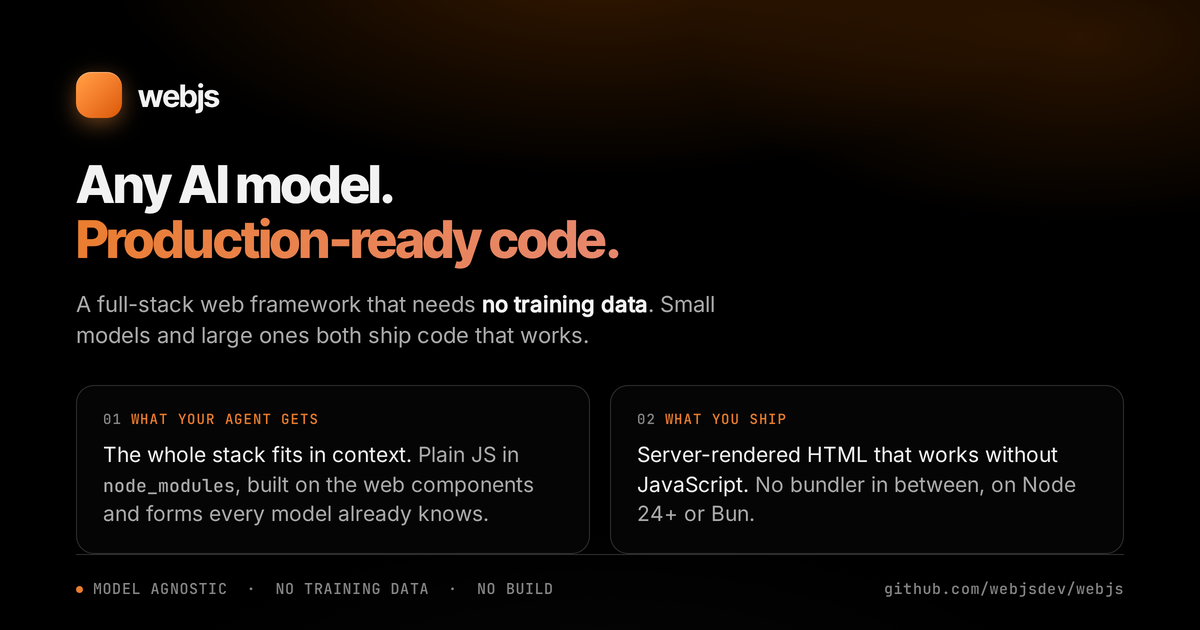
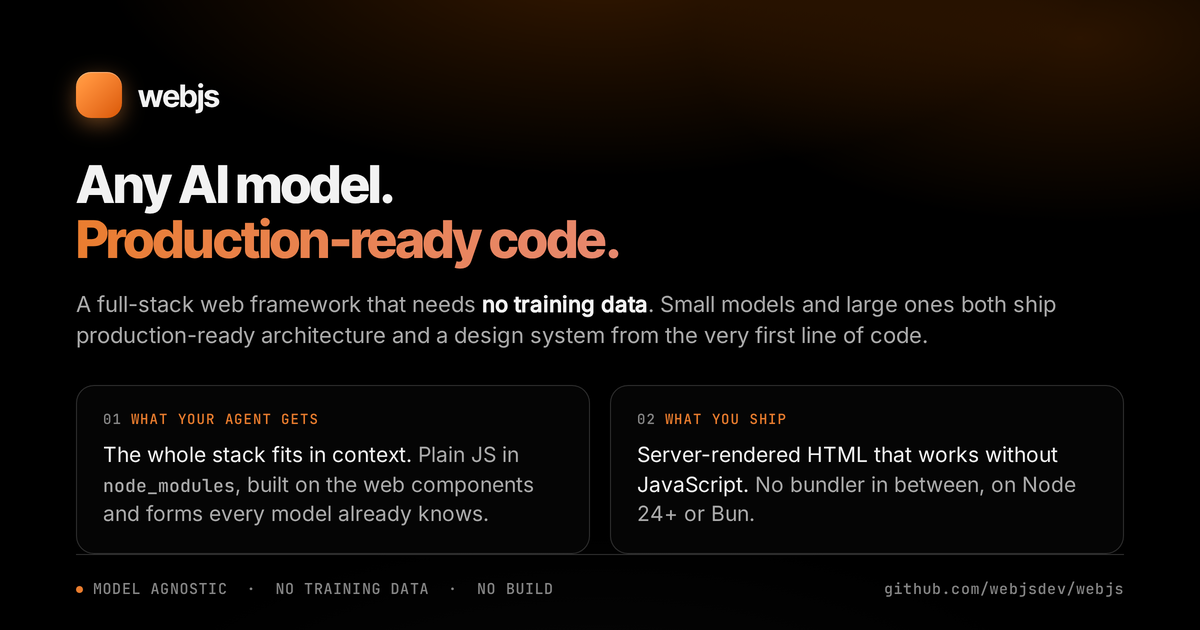
feat(website): promise architecture and a design system, not just code
'Ship code that works' understates the claim. What a model actually gets
out of WebJs from the first line is a production-ready architecture (the
modules layout, server actions, the server boundary) and a design system
(the scaffold's tokens and the component kit), not merely code that
compiles.

Applied to the three places the sentence appears: the home OG card, the
hero lede, and the meta description. The card's lede widens to 80ch so
the longer line still sets in two lines and the card layout is unchanged.

Changed region(s): [[0.0617, 0.4524, 0.8942, 0.573]]

diff --git a/website/app/layout.ts b/website/app/layout.ts
@@ -18,7 +18,7 @@ import { siteFooter } from '#lib/site-footer.ts';
  */
 
 const TITLE = 'WebJs - The Web Framework for AI Agents';
-const DESCRIPTION = 'A model-agnostic full-stack web framework that needs no training data. An agent reads the whole stack end to end, so small models and large ones both ship production-ready code. Web components, SSR, progressive enhancement, file-based routing, and server actions, with zero build step. Runs on Node 24+ or Bun.';
+const DESCRIPTION = 'A model-agnostic full-stack web framework that needs no training data. An agent reads the whole stack end to end, so small models and large ones both ship production-ready architecture and a design system from the very first line of code. Web components, SSR, progressive enhancement, file-based routing, and server actions, with zero build step. Runs on Node 24+ or Bun.';
 // Describes what the social card itself SAYS (public/og.png), which is the
 // benefit-led line, not the page title. Kept in lockstep with the headline in
 // scripts/generate-og.mjs.

diff --git a/website/app/page.ts b/website/app/page.ts
@@ -165,7 +165,8 @@ export default function LandingPage() {
       <p class="text-lede leading-[1.6] text-fg-muted max-w-[56ch] mx-auto mb-8 text-pretty">
         WebJs is a full-stack web framework that needs no training data. An
         agent reads the whole stack end to end, so small models and large ones
-        both ship code that works. Web components and SSR, zero build step, on
+        both ship production-ready architecture and a design system from the
+        very first line of code. Web components and SSR, zero build step, on
         Node 24+ or Bun.
       </p>
       <div class="flex gap-3 justify-center flex-wrap mb-8">
